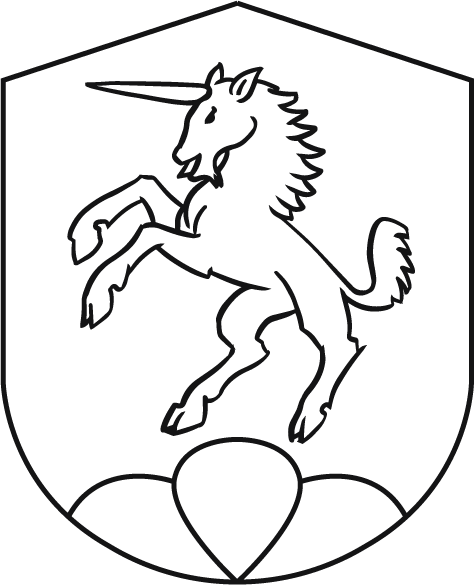
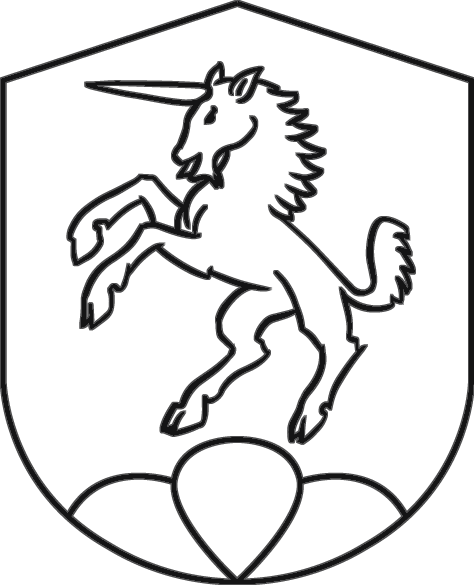
Wappen 50% grösser mit kräftigerem Strich, Cursor-Glow über dem Hintergrund
- Wappen-Varianten neu generiert: Linework per Alpha-Dilatation leicht
  verstärkt (plakativer), Header-Höhe des Wappens 2.375rem auf 3.5rem
- Neuer Glow-Layer im Hero: weiches Ultramarin-Licht (44vmax, Screen-
  Blend) folgt der Mausbewegung träge und blendet bei Stillstand aus;
  läuft im selben rAF-Loop wie Morph und Feld-Drift

https://claude.ai/code/session_01E6x8btfZoYM1c6n8yeCpCN

diff --git a/assets/js/main.js b/assets/js/main.js
@@ -214,8 +214,10 @@
       return { el: el, base: 700, w: 700, tw: 700 };
     });
     var field = document.getElementById("heroField");
+    var glow = document.getElementById("heroGlow");
     var mx = -9999, my = -9999;
     var fx = 0, fy = 0, tfx = 0, tfy = 0;
+    var gx = 0, gy = 0, go = 0, gInit = false;
     var raf = null, running = false, idleTimer = null, pointerActive = false;
 
     var render = function () {
@@ -241,6 +243,17 @@
         if (Math.abs(tfx - fx) > 0.3 || Math.abs(tfy - fy) > 0.3) busy = true;
         field.style.transform = "translate3d(" + fx.toFixed(1) + "px," + fy.toFixed(1) + "px,0)";
       }
+      if (glow && gInit) {
+        var tgx = mx;
+        var tgy = my + window.scrollY;
+        var tgo = pointerActive && tgy < darkHero.offsetHeight ? 1 : 0;
+        gx += (tgx - gx) * 0.07;
+        gy += (tgy - gy) * 0.07;
+        go += (tgo - go) * 0.05;
+        if (Math.abs(tgx - gx) > 0.5 || Math.abs(tgy - gy) > 0.5 || Math.abs(tgo - go) > 0.01) busy = true;
+        glow.style.transform = "translate3d(" + gx.toFixed(1) + "px," + gy.toFixed(1) + "px,0)";
+        glow.style.opacity = go.toFixed(3);
+      }
       if (busy || pointerActive) {
         raf = requestAnimationFrame(render);
       } else {
@@ -262,6 +275,11 @@
         my = e.clientY;
         tfx = (e.clientX / window.innerWidth - 0.5) * 56;
         tfy = (e.clientY / window.innerHeight - 0.5) * 36;
+        if (!gInit) {
+          gx = e.clientX;
+          gy = e.clientY + window.scrollY;
+          gInit = true;
+        }
         pointerActive = true;
         clearTimeout(idleTimer);
         idleTimer = setTimeout(function () { pointerActive = false; }, 120);

diff --git a/assets/css/style.css b/assets/css/style.css
@@ -357,7 +357,7 @@ strong {
 
 .wordmark__crest {
   width: auto;
-  height: 2.375rem;
+  height: 3.5rem;
   flex: none;
   transition: transform 0.5s var(--ease-out);
 }
@@ -562,6 +562,21 @@ body.menu-open {
 }
 @keyframes drift-c {
   to { transform: translate(-11vw, -9vh) scale(1.16); }
+}
+
+/* Cursor glow: soft ultramarine light that trails the pointer */
+.hero-glow {
+  position: absolute;
+  left: 0;
+  top: 0;
+  width: 44vmax;
+  height: 44vmax;
+  margin: -22vmax 0 0 -22vmax;
+  border-radius: 50%;
+  background: radial-gradient(circle, rgba(93, 93, 255, 0.32), transparent 64%);
+  mix-blend-mode: screen;
+  opacity: 0;
+  will-change: transform, opacity;
 }
 
 /* Swiss column grid, barely there */

diff --git a/index.html b/index.html
@@ -119,6 +119,7 @@
           <span class="blob blob--b"></span>
           <span class="blob blob--c"></span>
         </span>
+        <span class="hero-glow" id="heroGlow"></span>
         <span class="hero-grid"></span>
         <span class="hero-grain"></span>
       </div>
